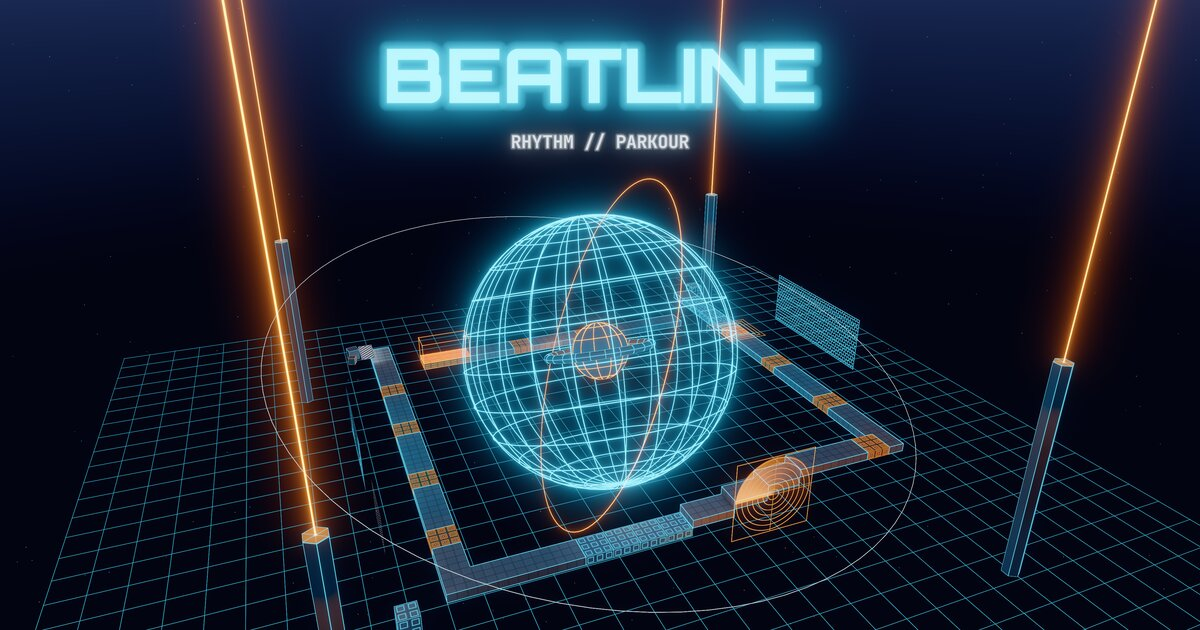
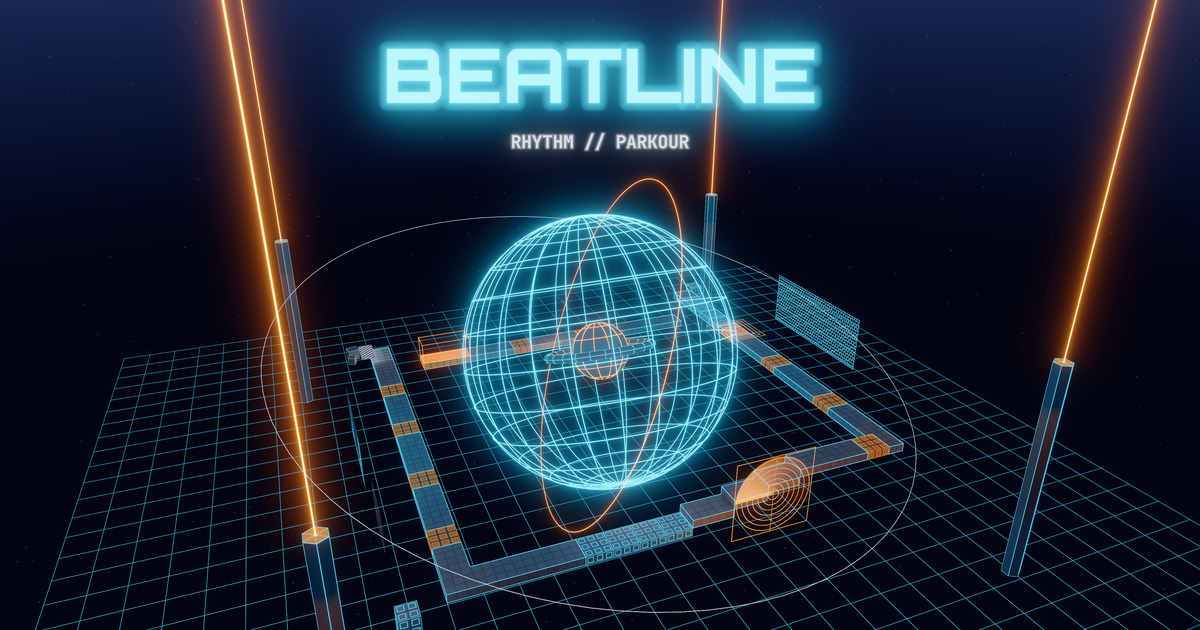
fix: lossless beatline source and higher quality image output

diff --git a/lib/content.ts b/lib/content.ts
@@ -38,7 +38,7 @@ export const beatline: Game = {
 	pitch: "RHYTHM // PARKOUR",
 	status: "coming-soon",
 	image: {
-		src: "/beatline-banner.jpg",
+		src: "/beatline-banner.png",
 		width: 1600,
 		height: 800,
 		alt: "The glowing cyan Beatline logo and \"Rhythm // Parkour\" above a wireframe globe ringed by a parkour track on a neon grid, between orange light pillars.",

diff --git a/app/page.tsx b/app/page.tsx
@@ -26,7 +26,8 @@ export default async function Home() {
 						width={beatline.image.width}
 						height={beatline.image.height}
 						alt={beatline.image.alt}
-						sizes="(max-width: 640px) 100vw, 600px"
+						sizes="(max-width: 680px) calc(100vw - 3rem), 610px"
+						quality={90}
 						priority
 					/>
 					<div className="feature-body">
